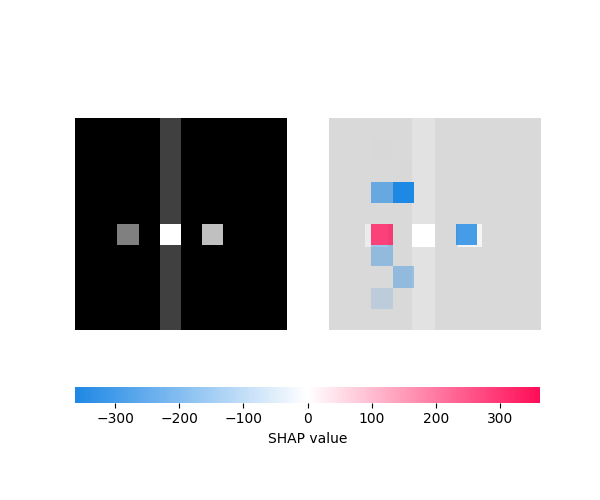
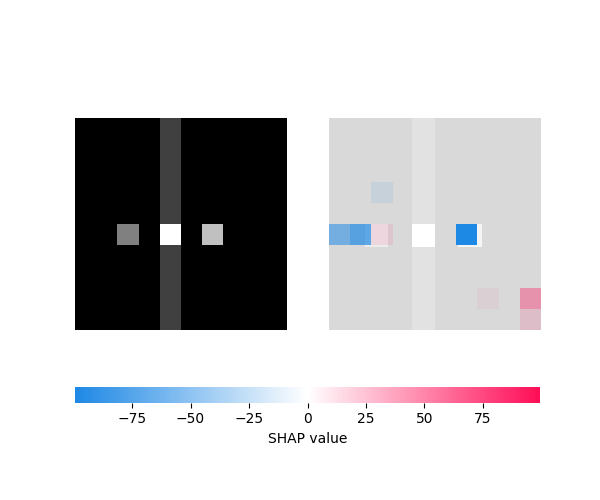
feat: normalized shap

diff --git a/methods/src/tcav/tcav.py b/methods/src/tcav/tcav.py
@@ -1,23 +1,16 @@
 import torch
+import logging
 import torch.nn as nn
 from torch.optim.adamw import AdamW
 import numpy as np
 
-<<<<<<< HEAD
 from environments.gymnasium.wrappers import CAVWrapper
-=======
-from environments.gymnasium.wrappers import TCAVWrapper
->>>>>>> main
 
 from .linear_classifier import LinearClassifier
 
 
 class TCAV:
-<<<<<<< HEAD
     def __init__(self, env: CAVWrapper, policy: nn.Module) -> None:
-=======
-    def __init__(self, env: TCAVWrapper, policy: nn.Module) -> None:
->>>>>>> main
         self.env = env
         self.policy = policy
         self.num_layers = len(list(policy.children()))
@@ -105,6 +98,6 @@ class TCAV:
             loss.backward()
             optimizer.step()
             if epoch % 10 == 0:
-                print(f"Epoch {epoch}: {loss.item()}")
+                logging.info(f"Epoch {epoch}: {loss.item()}")
 
         return classifier

diff --git a/methods/src/utils/models.py b/methods/src/utils/models.py
@@ -51,7 +51,6 @@ class Models:
         artifact_dir, metadata = self.wandb_manager.load_model(
             self._run_id, self._model_artifact, self._version_number
         )
-        print(f"Artifact dir: {artifact_dir}")
         if artifact_dir is None or metadata is None:
             raise Exception(f"Model not found, {traceback.format_exc}")
         self._metadata = metadata

diff --git a/methods/src/shap/single_agent_shap.py b/methods/src/shap/single_agent_shap.py
@@ -44,7 +44,6 @@ class SingleAgentShap(SingleAgentBase):
         return self.explainer
 
     def shap_values(self, test_states: np.ndarray | None = None) -> Any:
-        print(test_states)
         states = self.test_states
         if test_states is not None:
             states = test_states

diff --git a/methods/src/utils/data_handler.py b/methods/src/utils/data_handler.py
@@ -31,5 +31,3 @@ if __name__ == "__main__":
     negative_path = "data/negative_samples.csv"
     data_handler = DataHandler()
     data_handler.load_data_from_path(positive_path, negative_path)
-    print(data_handler.data.positive_samples)
-    print(data_handler.data.negative_samples)

diff --git a/methods/src/utils/data.py b/methods/src/utils/data.py
@@ -77,5 +77,3 @@ class Data:
 
 if __name__ == "__main__":
     data = Data("data/positive_samples.csv", "data/negative_samples.csv")
-    print(data.positive_samples)
-    print(data.negative_samples)
